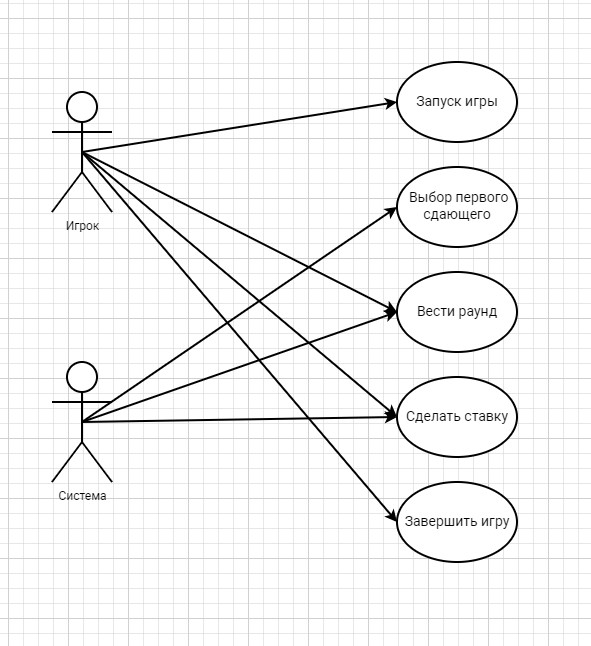
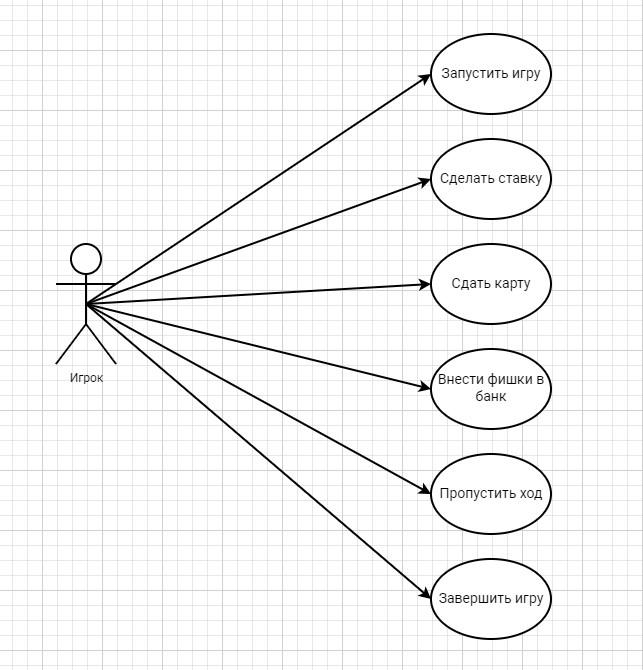
второй коммит

diff --git a/lab1.md b/lab1.md
@@ -6,75 +6,88 @@ __Проект 13. Яблон (В промежутке, Туз-двойка)__
 
 ![uml диаграмма](uml.jpg)
 ___
-## Прецедент "Запуск игры"
-Описание: Игрок начинает новую игру, указывает количество ботов от 1 до 7 и сумму, которая вносится в банк, от каждого игрока
+## Прецедент "Запустить игру"
+Описание: Игрок указывает количество ботов (от 1 до 7)
 * Основоной исполнитель: Игрок
-* Предусловие: Приложение готово к запуску
-* Постусловие: Начинается выбор сдающего
+* Предусловие: Приложение запущено, количество ботов еще не известно
+* Постусловие: Начинается игра, количество ботов известно, игроку зачисленно определенная сумма фишек
 ### Основной успешный сценарий
 Пользователь | Система
 :-----------------------|-----------------------:
-1\. Игрок запускает приложение |
-2\. Игрок вводит количество ботов от 1 до 7 и сумму, которая вносится в банк от каждого игрока | 
-|| 3\. Создаётся игра с выбранным количеством ботов и заданной суммой в банке
-|| 4\. Начинается выбор сдающего
+1\. Нажимает на кнопку "Начать игру" |
+|| 2\. Запрашивает у игрока ввод количества ботов
+3\. Вводит количество ботов от 1 до 7 | 
+|| 4\. Проверяет корректность данных
+|| 5\. Запускает игровой процесс
 
 ### Альтернативный сценарий
-Пользователь | Система
-:-----------------------|-----------------------:
-1\. Игрок запускает приложение |
-2\. Игрок вводит некорректное количество ботов от 1 до 7 или некорректный размер суммы, вносимой в банк | 
-|| 3\. Система выводит сообщение об ошибке и даёт возможность ввести данные еще раз
-
-## Прецедент "Выбор первого сдающего"
-Описание: Система сдают каждому игроку по кругу карту, первым сдающем будет тот, кому выпадает туз.
-* Основоной исполнитель: Система
-* Предусловие: Игра запущена, определено количество ботов
-* Постусловие: Начинается раунд игры
-### Основной успешный сценарий
-Пользователь | Система
-:-----------------------|-----------------------:
-1\. Игрок ждет пока система сдаёт каждому игроку по кругу карту | 
-|| 2\. Система сдаёт каждому игроку карту
-|| 3\. Система назначает сдающим того, кому первому выпал туз 
-
-## Прецедент "Вести раунд"
-Описание: Система перетасовывает колоду, раздаёт по 2 карты каждому игроку, собирает с каждого игрока заданную сумму в банк. Если сдающим выбрали игрока, то он выдаёт третью карту боту, в зависимости от решения бота. Если сдающем выбрали бота, то он делает те же действия, что и игрок. 
-* Основоной исполнитель: Игрок, Система
-* Предусловие: Выбран сдающий
-* Постусловие: Начинается следующий раунд
-
-### Основной успешный сценарий
-Пользователь | Система
-:-----------------------|-----------------------:
-|| 1\. Система перетасовывает колоду, раздаёт каждому игроку по 2 карты, собирает с каждого игрока заданную сумму в банк.
-2\.1 Игрок принимает решение сделать ставку  | 2\.2 Бот принимает решение сделать ставку
-3\.1 Игрок выдаёт третью карту боту | 3\.2 Бот выдаёт третью карту игроку или другому боту
-
-### Альтернативный сценарий
-Пользователь | Система
-:-----------------------|-----------------------:
-|| 1\. Система перетасовывает колоду, раздаёт каждому игроку по 2 карты, собирает с каждого игрока заданную сумму в банк.
-2\.1 Игрок принимает решение не делать ставку  | 2\.2 Бот принимает решение не делать ставку
+Игрок не заполнил или заполнил некорректно поле для ввода количества ботов, тогда система сообщит об ошибке и даст возможность заполнить поле заново.
 
 ## Прецедент "Сделать ставку"
-Описание: Игрок или бот получает 2 карты в начале раунда. Когда доходит до него очередь, он (бот или игрок) принимает решение делать ставку или нет. Дальнейшие последствия происходят по правилам игры.
-* Основоной исполнитель: Игрок, Система
-* Предусловие: Во время раунда до игрока дошла очередь принимать решение
-* Постусловие: Ход переходит к следующему игроку или начинается новый раунд, если игрок был последним в кругу
+Описание: До игрока дошла очередь в круге. Он решает сделать ставку
+* Основоной исполнитель: Игрок
+* Предусловие: До игрока дошла очередь в круге
+* Постусловие: Дальшейшие события происходят согласно правилам игры
 
 ### Основной успешный сценарий
 Пользователь | Система
 :-----------------------|-----------------------:
-1\.1 Игрок принимает решение сделать ставку  | 1\.2 Бот принимает решение сделать ставку
-2\.1 Если игрок выйграл, он получает из банка удвоенную сумму денег, которую он внес вначале игры, если проиграл, то не получает денег | 2\.2 Если бот выйграл, он получает из банка удвоенную сумму денег, которую он внес вначале игры, если проиграл, то не получает денег
-|| 3\. Ход переходит к следующему игроку или начинается новый раунд, если игрок оказался последним в круге
+1\.  Делает ставку  |
+|| 2\. Сдаёт карту
+|| 3\. Сравнивает карты игрока и сданную карту и делает вывод, что игрок выйграл
+|| 4\. Выдаёт игроку из банка удвоенную сумму фишек заданную в начале игры
 
-### Альтернативный сценарий
+### Альтернативный сценарий 1
+Если игрок сделал ставку, но не выйграл, то он не получает фишки из банка
+
+### Альтернативный сценарий 2
+Если игрок в тот момент, когда делает ставку, сам является сдающем, то он должен сам себе сдать карту. Если игрок выйграл, то получает удвоенную сумму фишек заданную в начале игры
+
+### Альтернативный сценарий 3
+Если игрок в тот момент, когда делает ставку, сам является сдающем, то он должен сам себе сдать карту. Если игрок проиграл, то не получает фишек из банка
+
+## Прецедент "Сдать карту"
+Описание: Если игрок является сдающим, то он должен выдать третью карту игроку, который решил сделать ставку.
+* Основоной исполнитель: Игрок
+* Предусловие: Игрок, до которого дошла очередь в кругу, решил сделать ставку
+* Постусловие: Игрок, до которого дошла очередь в кругу, увидел третью карту
+### Основной успешный сценарий
 Пользователь | Система
 :-----------------------|-----------------------:
-1\.1 Игрок принимает решение не делать ставку  | 1\.2 Бот принимает решение не делать ставку
-|| 3\. Ход переходит к следующему игроку или начинается новый раунд, если игрок оказался последним в круге
+1\. Нажимает на кнопку "Сдать карту" | 
+|| 2\. Сдаёт карту из колоды
+
+## Прецедент "Внести фишки в банк"
+Описание: В начале новой игры, игрок должен ввести количество фишек, которые он внесет в банк. Такую же сумму внесут в банк боты.
+* Основоной исполнитель: Игрок
+* Предусловие: Игрок запустил игру и указал количество ботов
+* Постусловие: Начинается первый раунд
+
+### Основной успешный сценарий
+Пользователь | Система
+:-----------------------|-----------------------:
+|| 1\. Запрашивает у игрока ввод суммы фишек
+2\. Вводит определенную сумму фишек  |
+|| 3\. Проверяет введенные данные на корректность
+|| 4\. Запускаяет первый раунд
+
+### Альтернативный сценарий
+Игрок не заполнил или заполнил некорректно поле для ввода количества фишек, тогда система сообщит об ошибке и даст возможность заполнить поле заново.
+
+## Прецедент "Пропустить ход"
+Описание: До игрока дошла очередь в круге. Он решает не делать ставку
+* Основоной исполнитель: Игрок
+* Предусловие: До игрока дошла очередь в круге
+* Постусловие: Игрок не получает фишек из банка, ход переходит к следующему игроку или начинается новый раунд, если игрок был последний в круге
+
+### Основной успешный сценарий
+Пользователь | Система
+:-----------------------|-----------------------:
+1\.  Нажимет на кнопку "Пропустить ход"  |
+|| 2\. Передаёт ход следующему игроку
+
+### Альтернативный сценарий 1
+Если игрок, который пропустил ход является последним в кругу, то начинается следующий раунд
 
 ## Прецедент "Завершить игру"
 Описание: Игрок может в любой момент завершить игру
@@ -85,5 +98,5 @@ ___
 ### Основной успешный сценарий
 Пользователь | Система
 :-----------------------|-----------------------:
-1\. Игрок принимает решение завершить игру  | 
-|| 2\. Состояние игры возвращается в первоначальное
+1\. Нажимает на кнопку "Завершить игру"  | 
+|| 2\. Возвращает состояние игры в первоначальное

diff --git a/readme.md b/readme.md
@@ -1,0 +1,34 @@
+13.	Банковая карточная игра «Яблон»
+Эту игру также называют «В промежутке» и «Туз-двойка». Чаще всего в нее 
+играют как в игру с «пул»-банком.
+Игровые принадлежности:
+- одна стандартная колода из 52 карт;
+- игровые фишки (или наличные деньги).
+Игроки: от двух до восьми.
+Иерархия карт
+Обычная, туз старше всех. Масти равны между собой.
+Цель игры
+Каждый игрок надеется получить карту промежуточным достоинством между двумя его первыми картами.
+Выбор первого сдающего определяется сдачей: до выпадения первого туза .
+Тасование и снятие колоды
+Осуществляются в обычном порядке..
+Предварительная ставка
+Перед каждой сдачей каждый игрок, включая сдающего, вносит в «пул»-банк одинаковую оговоренную сумму.
+Сдача
+Сдающий сдает каждому игроку, включая себя, две карты втемную, по одной за круг.
+Правила игры
+Игра начинается с игрока слева от сдающего:
+1) он смотрит свои карты и решает, стоит ли делать ставку;
+2) если он не будет делать ставку, то говорит: «Не ставлю», и возвращает свои карты сдающему, который кладет их в стопку сброса. После этого ход перемещается к следующему игроку слева.
+Если первый игрок все же изъявил желание сделать ставку, он кладет ее перед собой рядом с «пулом». Минимальная ставка равна предварительной; максимальная — текущей стоимости «пула»;
+3) сдающий дает ему верхнюю карту колоды в открытую. Она называется «добранной картой» игрока;
+4) игрок вскрывает две свои первоначальные карты;
+5) если добранная карта игрока имеет промежуточное достоинство между двумя его первыми картами, игрок выигрывает. Например, если у него на руках были 5 и 9, он должен, чтобы выиграть, добрать 6, 7 или 8; если у него 2 и туз, он для выигрыша может добрать любую карту, кроме 2 или туза.
+Заметим, что, если у игрока две одинаковые карты (например, две 6) или две смежные карты (например, 10 и валет), он не может выиграть и не делает ставку;
+6) если игрок выиграл, он сохраняет свою ставку и получает такую же сумму из «пула», если он проиграл, его ставка уходит в «пул»;
+7) каждый игрок, включая сдающего, имеет право хода; ход каждый раз перемещается влево.
+Продолжение игры
+После того как каждый игрок сделал ход, право сдавать переходит к игроку слева от сдающего. Он собирает все карты, тасует их под следующую партию.
+Все оставшиеся в «пуле» деньги переходят в следующую партию, но игроки, кроме того, опять вносят предварительную ставку.
+Раздел «пула»
+Если размер «пул»-банка превышает установленный заранее размер, он незамедлительно делится между игроками.
